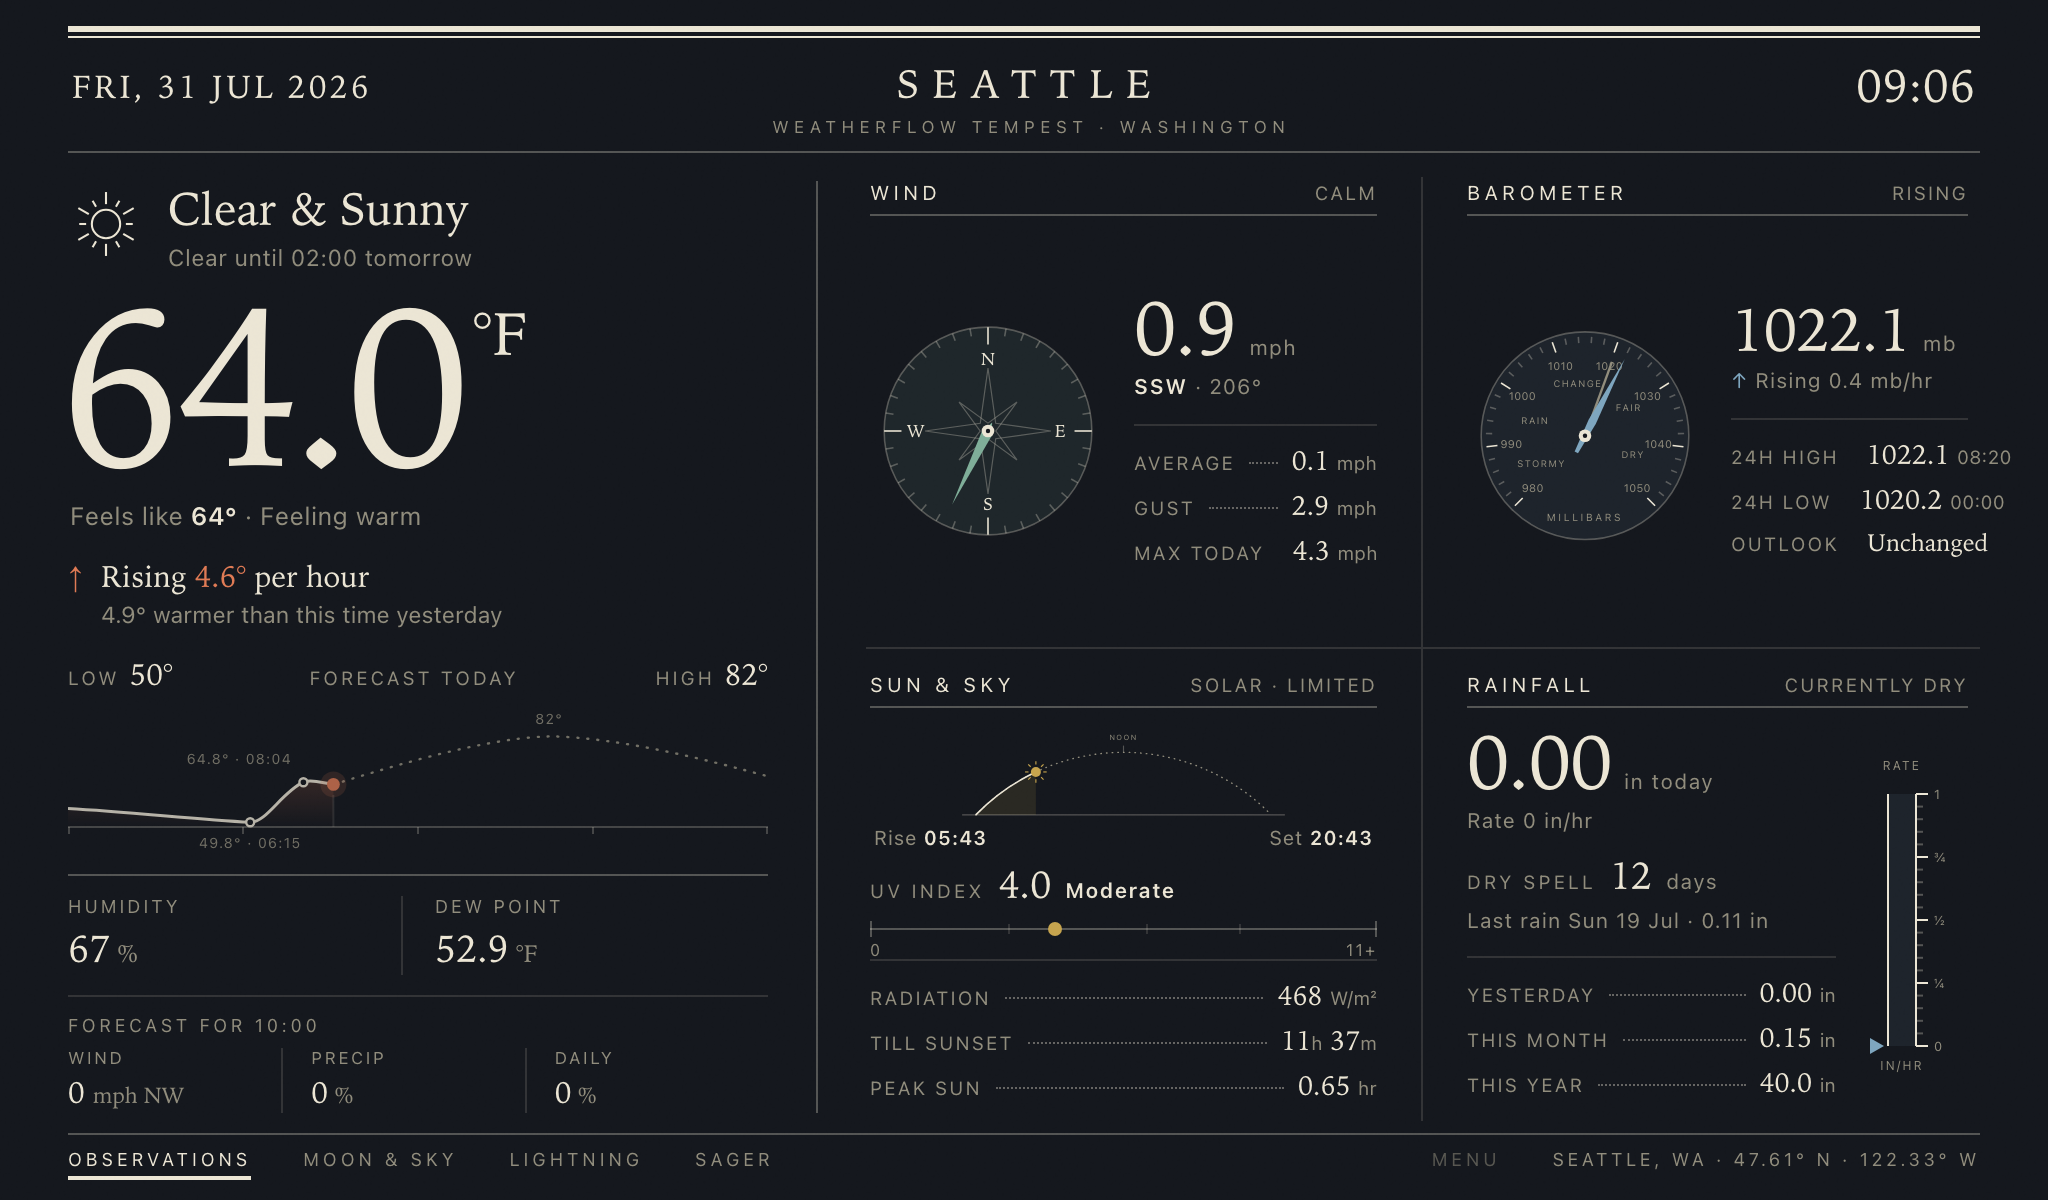
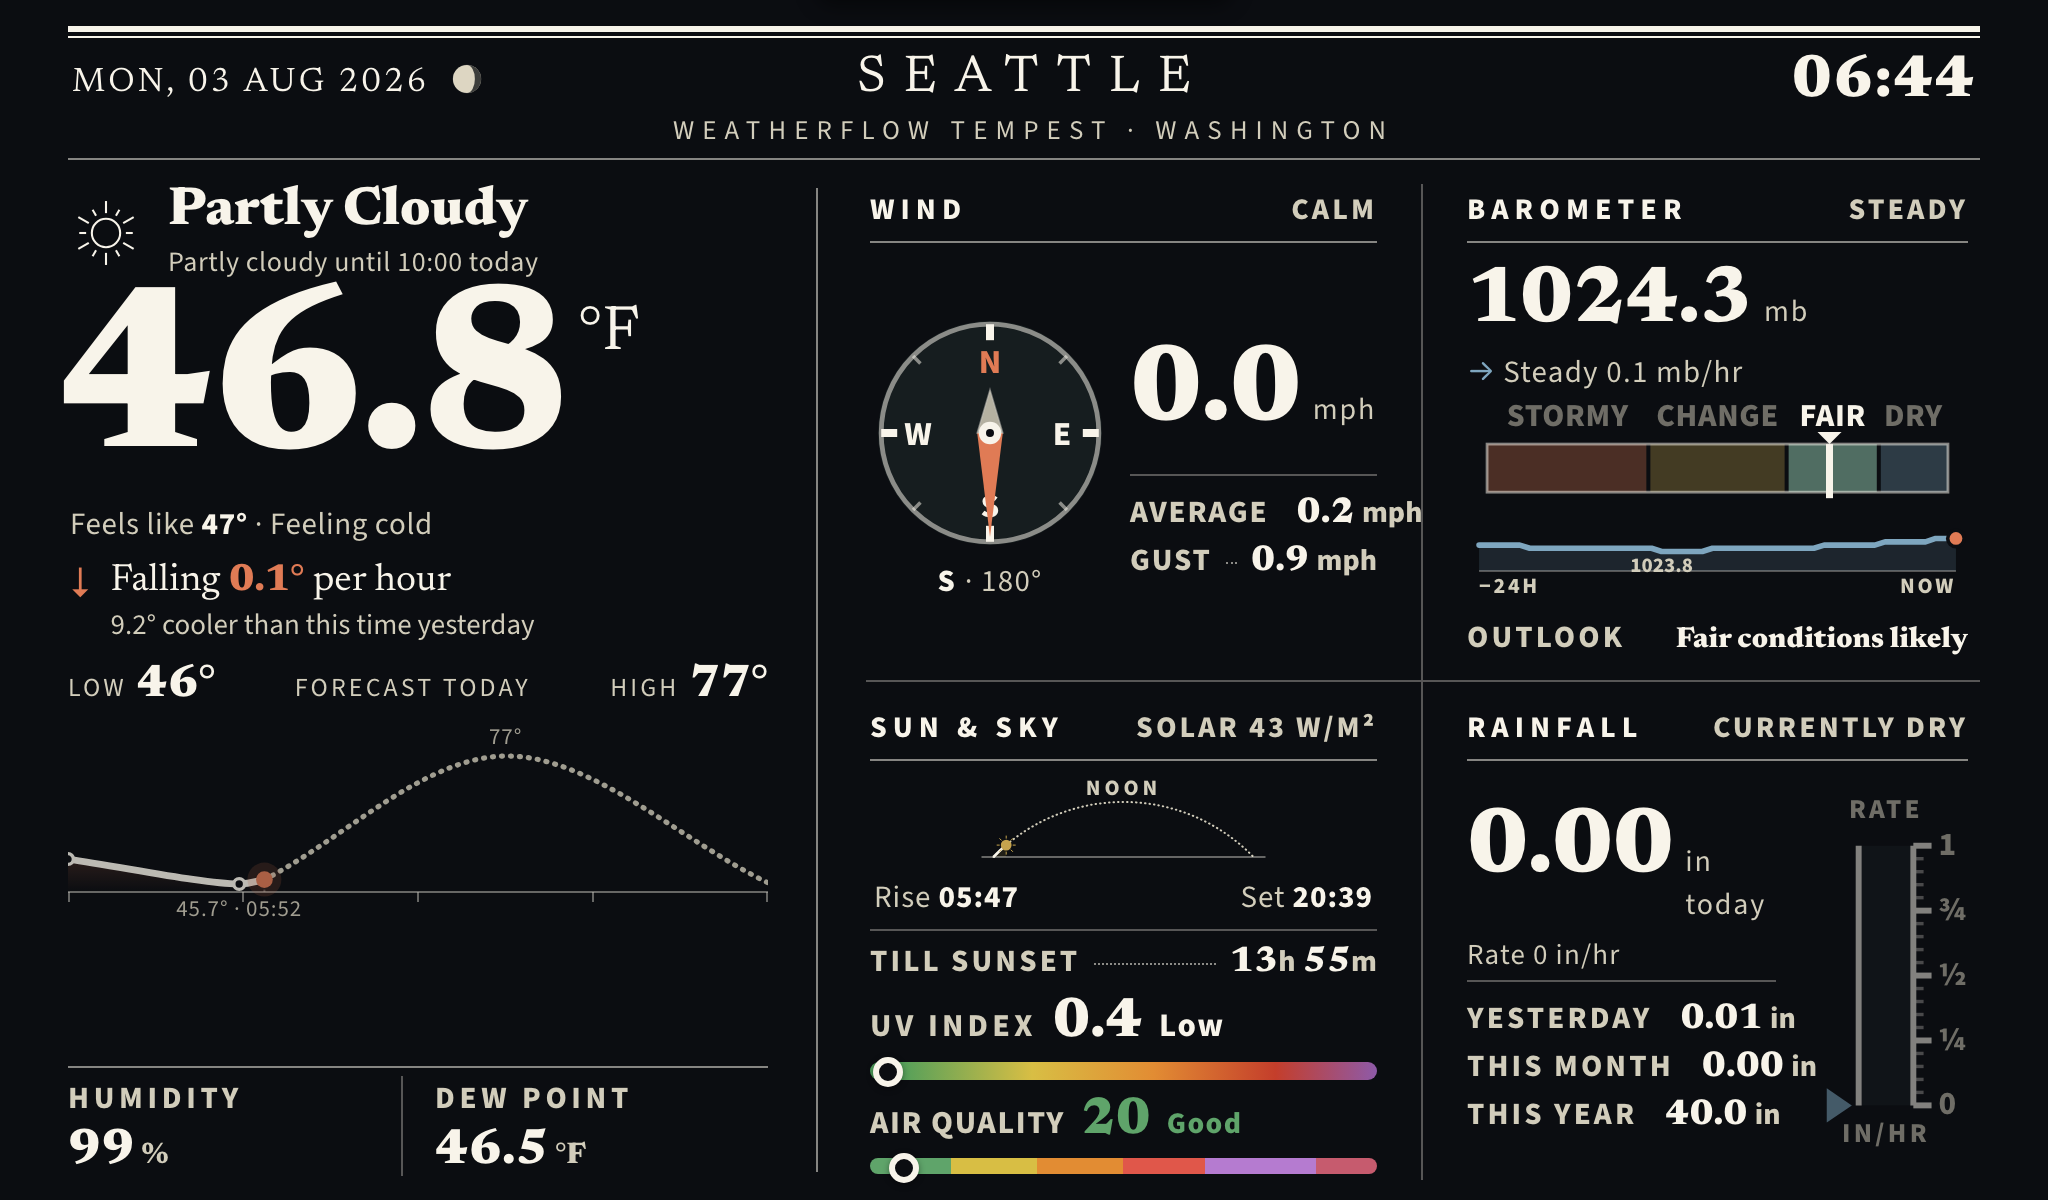
docs: match the Almanac screenshot's readings to the classic one
Regenerate the Almanac shot from a wx.json carrying the classic capture's exact
readings (46.8 °F, feels-like cold, 99% humidity, 46.5° dew, calm wind, 1024.3 mb
steady, 43 W/m², rise 05:47 / set 20:39, UV 0.4, 0.01 in yesterday, 40.0 in year),
rendered through the real console_live.html path. Now both README images show the
identical station reading, so the comparison isolates the UX difference. Reworded
the captions to say so.

Claude-Session: https://claude.ai/code/session_01QkL4Vno8Hfv3LUCCbCasMj

diff --git a/README.md b/README.md
@@ -29,11 +29,16 @@ same station data, built to be read from across a room on a wall-mounted 7-inch
 screen. It runs on the same Raspberry Pi off the same feed and leaves the classic
 six-panel console untouched.
 
-![The Almanac interface, showing Seattle sample data](design/almanac/screenshots/almanac.png)
-<sup>The Almanac (Seattle sample data).</sup>
+The same station reading, two interfaces, so the only thing that changes is how
+it reads. The Almanac (this fork):
 
-![The classic six-panel console](design/almanac/screenshots/classic.png)
-<sup>The classic six-panel console it runs alongside (upstream default).</sup>
+![The Almanac interface showing the reading below, redesigned](design/almanac/screenshots/almanac.png)
+
+And the classic six-panel console (the upstream default) showing the identical
+reading — 46.8 °F, 99% humidity, calm wind, 1024.3 mb and steady, 0.01 in of rain
+yesterday:
+
+![The classic six-panel console showing the same reading](design/almanac/screenshots/classic.png)
 
 What it changes:
 
